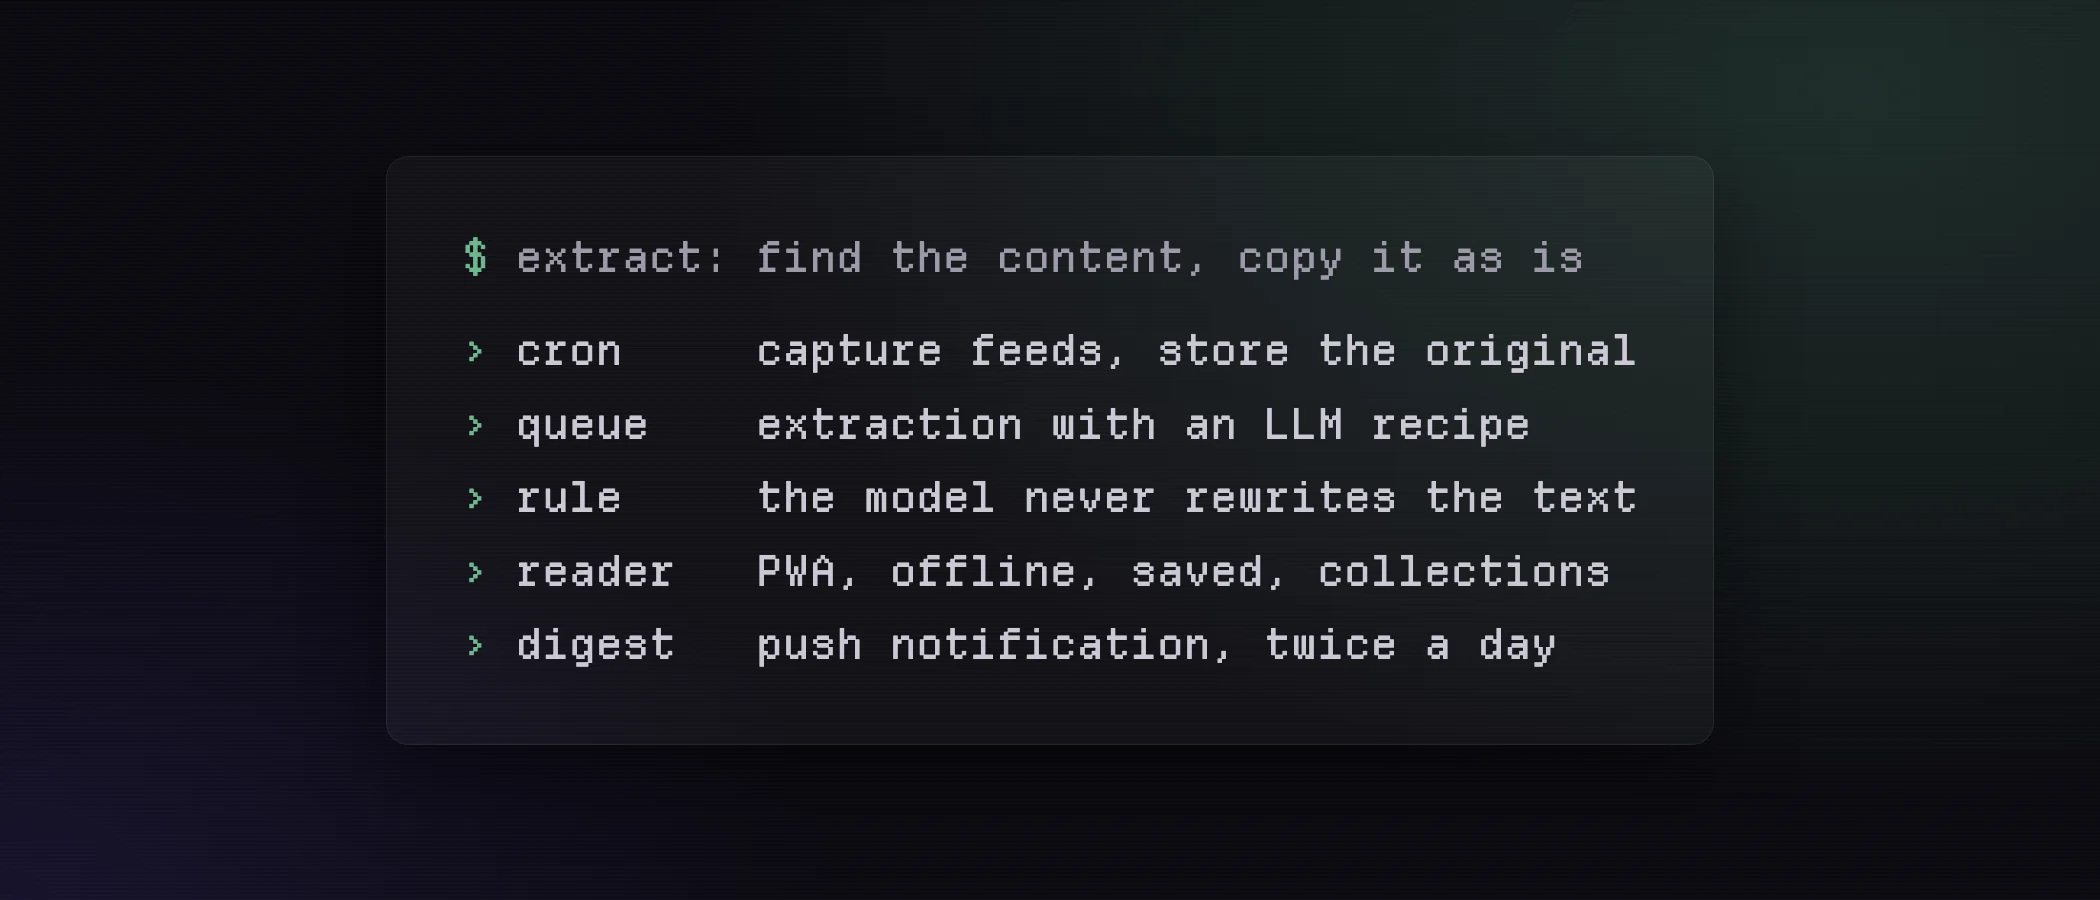
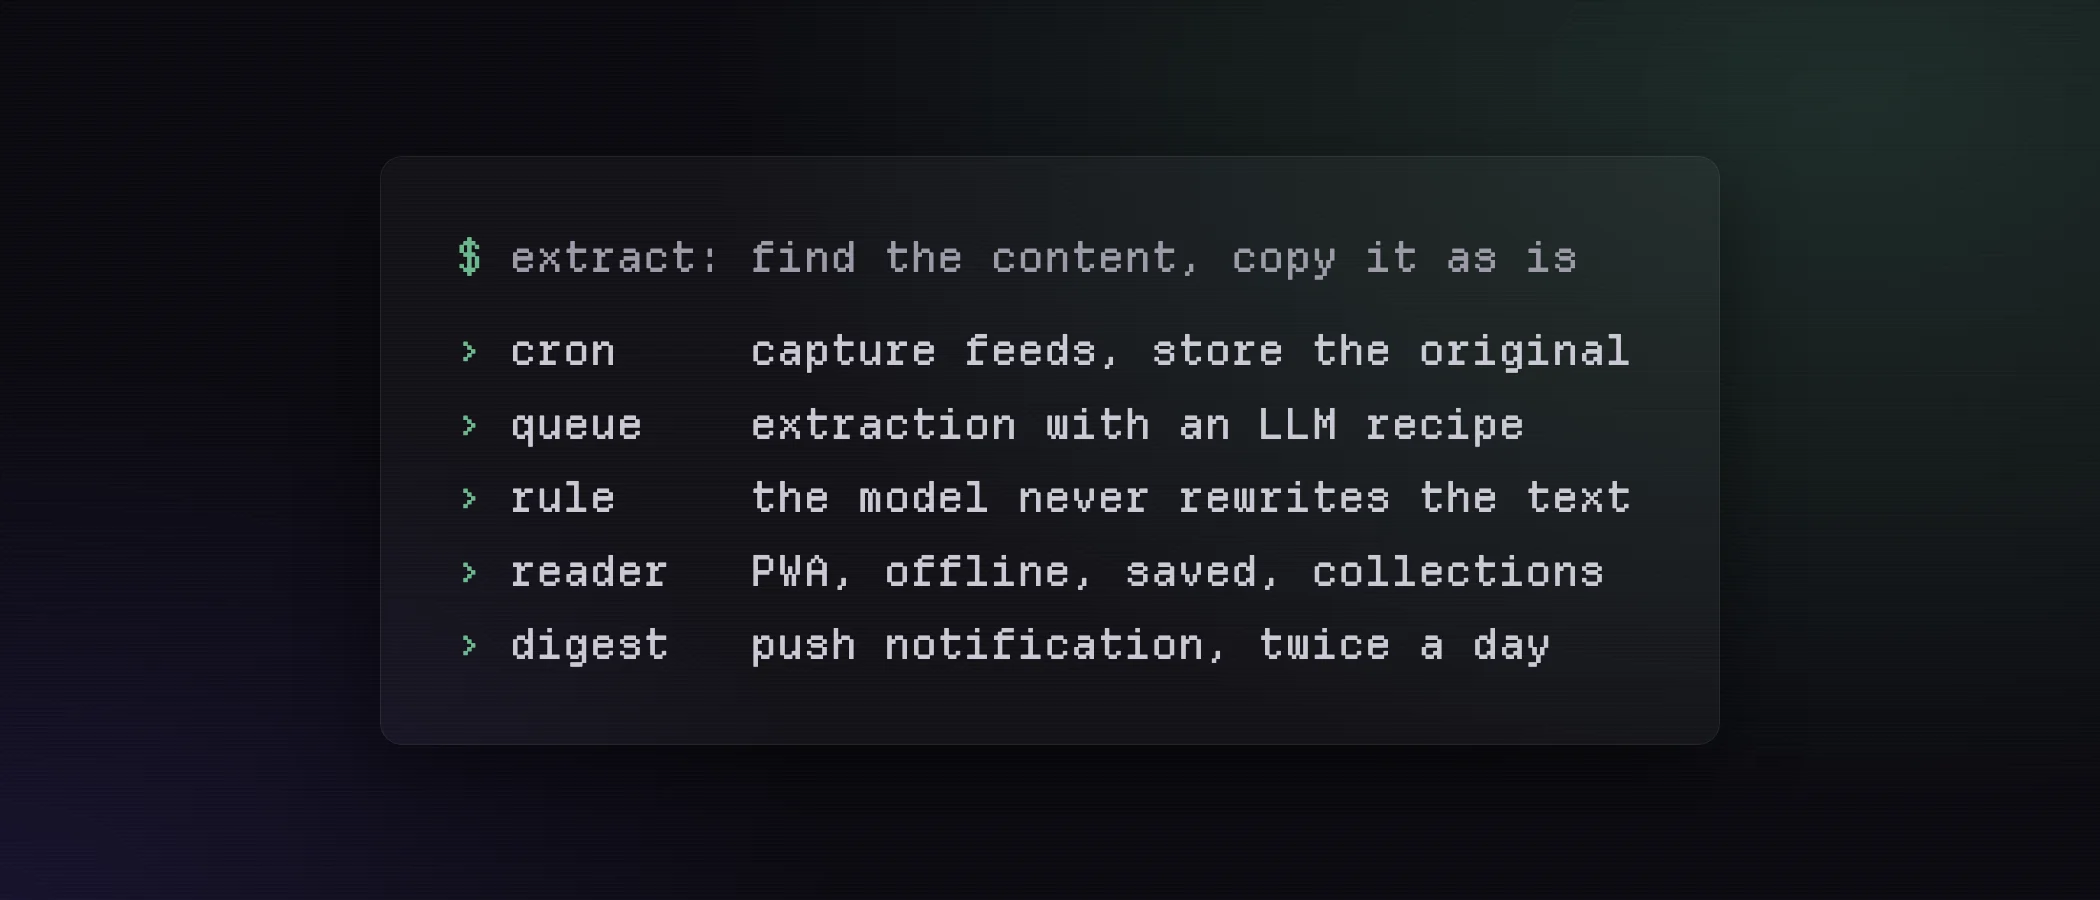
fix(covers): one width for every code or list panel
The panel followed its text, so the designed covers came out in three
sizes side by side in the list. The script now fixes the width and stops
on a line that does not fit; the six list covers are rendered again.

diff --git a/scripts/render-cover.ts b/scripts/render-cover.ts
@@ -14,6 +14,8 @@
  *     "panel": { "kind": "code" | "list", "lines": ["..."] } | { "kind": "image", "image": "x.png" },
  *     "out": "cover.webp" }
  * `prompt` is an optional first line of a code or list panel, after a `$` in the accent.
+ * A code or list panel is always `TEXT_WIDTH` wide, whatever its text, so the covers read as one
+ * family in the list; a line that does not fit stops the render instead of being cut.
  *
  * The spec lives next to the cover (`cover.json`) so the cover can be regenerated; it is not
  * read by the site.
@@ -64,6 +66,9 @@ const THEME = {
 /** The largest box a screenshot fits in: inside the mobile crop, with room for the glow. */
 const BOX = { width: 1500, height: 760 };
 
+/** The width of every code or list panel: about 42 characters of text beside the marker. */
+const TEXT_WIDTH = 1340;
+
 const MIME: Record<string, string> = {
 	'.png': 'image/png',
 	'.webp': 'image/webp',
@@ -100,7 +105,7 @@ async function page(spec: Spec, base: string, theme: Theme): Promise<string> {
 		const lines = spec.panel.lines
 			.map((l) => `<div class="line ${kind}">${escapeHtml(l)}</div>`)
 			.join('');
-		panel = `<div class="panel">${prompt}${lines}</div>`;
+		panel = `<div class="panel text">${prompt}${lines}</div>`;
 	}
 	return `<!doctype html><html><head><meta charset="utf-8"><style>
 @font-face { font-family: Mono; src: url(${mono}) format('woff'); }
@@ -121,6 +126,7 @@ body::after { /* the CRT scanlines of the site, faint */
 	background: ${t.panel}; box-shadow: inset 0 0 0 1px ${t.edge}, 0 30px 80px ${t.shadow};
 	color: ${t.text}; white-space: pre; overflow: hidden; max-width: ${BOX.width}px;
 }
+.panel.text { width: ${TEXT_WIDTH}px; }
 .panel.shot { padding: 0; } .panel.shot img { display: block; }
 .prompt { color: ${t.muted}; margin-bottom: 20px; } .prompt b { color: ${accent}; font-weight: 400; }
 .line.list::before { content: '› '; color: ${accent}; }
@@ -147,6 +153,12 @@ for (const file of specs) {
 	for (const theme of ['dark', 'light'] as const) {
 		await tab.setContent(await page(spec, base, theme));
 		await tab.evaluate(() => document.fonts.ready);
+		// The panel hides what overflows: a line too long would lose its end without a word.
+		const over = await tab.evaluate(() => {
+			const text = document.querySelector('.panel.text');
+			return text ? text.scrollWidth - text.clientWidth : 0;
+		});
+		if (over > 0) throw new Error(`${file}: a line is ${over}px wider than the panel, shorten it`);
 		await sharp(await tab.screenshot({ type: 'png' }))
 			.webp({ quality: 86 })
 			.toFile(outs[theme]);

diff --git a/docs/CYCLES.md b/docs/CYCLES.md
@@ -432,8 +432,10 @@ Two new project entries, the showcase changed to hold them, and what followed fr
   small team"; Varco, Relay, Zeno, Personal servers and Copilota got their current state. Along
   the way figures that age fast or serve no reader went out (session counts, micro-benchmarks).
   The Now note of the month and the changelog entry tell all of it.
-- **Designed covers:** Copilota's list no longer carries the two claims its text dropped, and
-  Watch OS's list has the same two columns as the others.
+- **Designed covers:** every code or list panel now has one width, set in
+  `scripts/render-cover.ts`: the panel used to follow its text, so Watch OS came out narrow and
+  Copilota wide. A line that does not fit stops the render. The six list covers are rendered
+  again; Copilota's no longer carries the two claims its text dropped.
 - **Open**, both in the BACKLOG: the `/releases` link shown even for repos with no release,
   and an E2E test of the mobile menu that fails now and then under the full suite.
 - **Next step:** unchanged from Cycle 34.

diff --git a/docs/features/progetti.md b/docs/features/progetti.md
@@ -131,7 +131,9 @@ Both are files in the project's folder, declared in `meta.json` (`logo`, `cover`
   heading and the excerpt say them right below, translated, while text in an image stays in
   one language. A designed cover is one panel (code, a list or a screenshot) centered on the
   accent's glow, inside the 16:9 crop of mobile. A small screenshot goes in a panel rather
-  than full bleed, which would blow it up.
+  than full bleed, which would blow it up. A code or list panel has one width for every
+  cover (`TEXT_WIDTH` in the script, about 42 characters a line), so they read as one family in
+  the list; a longer line stops the render.
 - **Screenshots only from demo data.** No real personal data, no client or company names,
   no copyrighted posters or third-party content, no paths of private repos. A screenshot is
   looked at before it is saved. Dark interfaces where the project has a dark mode.
